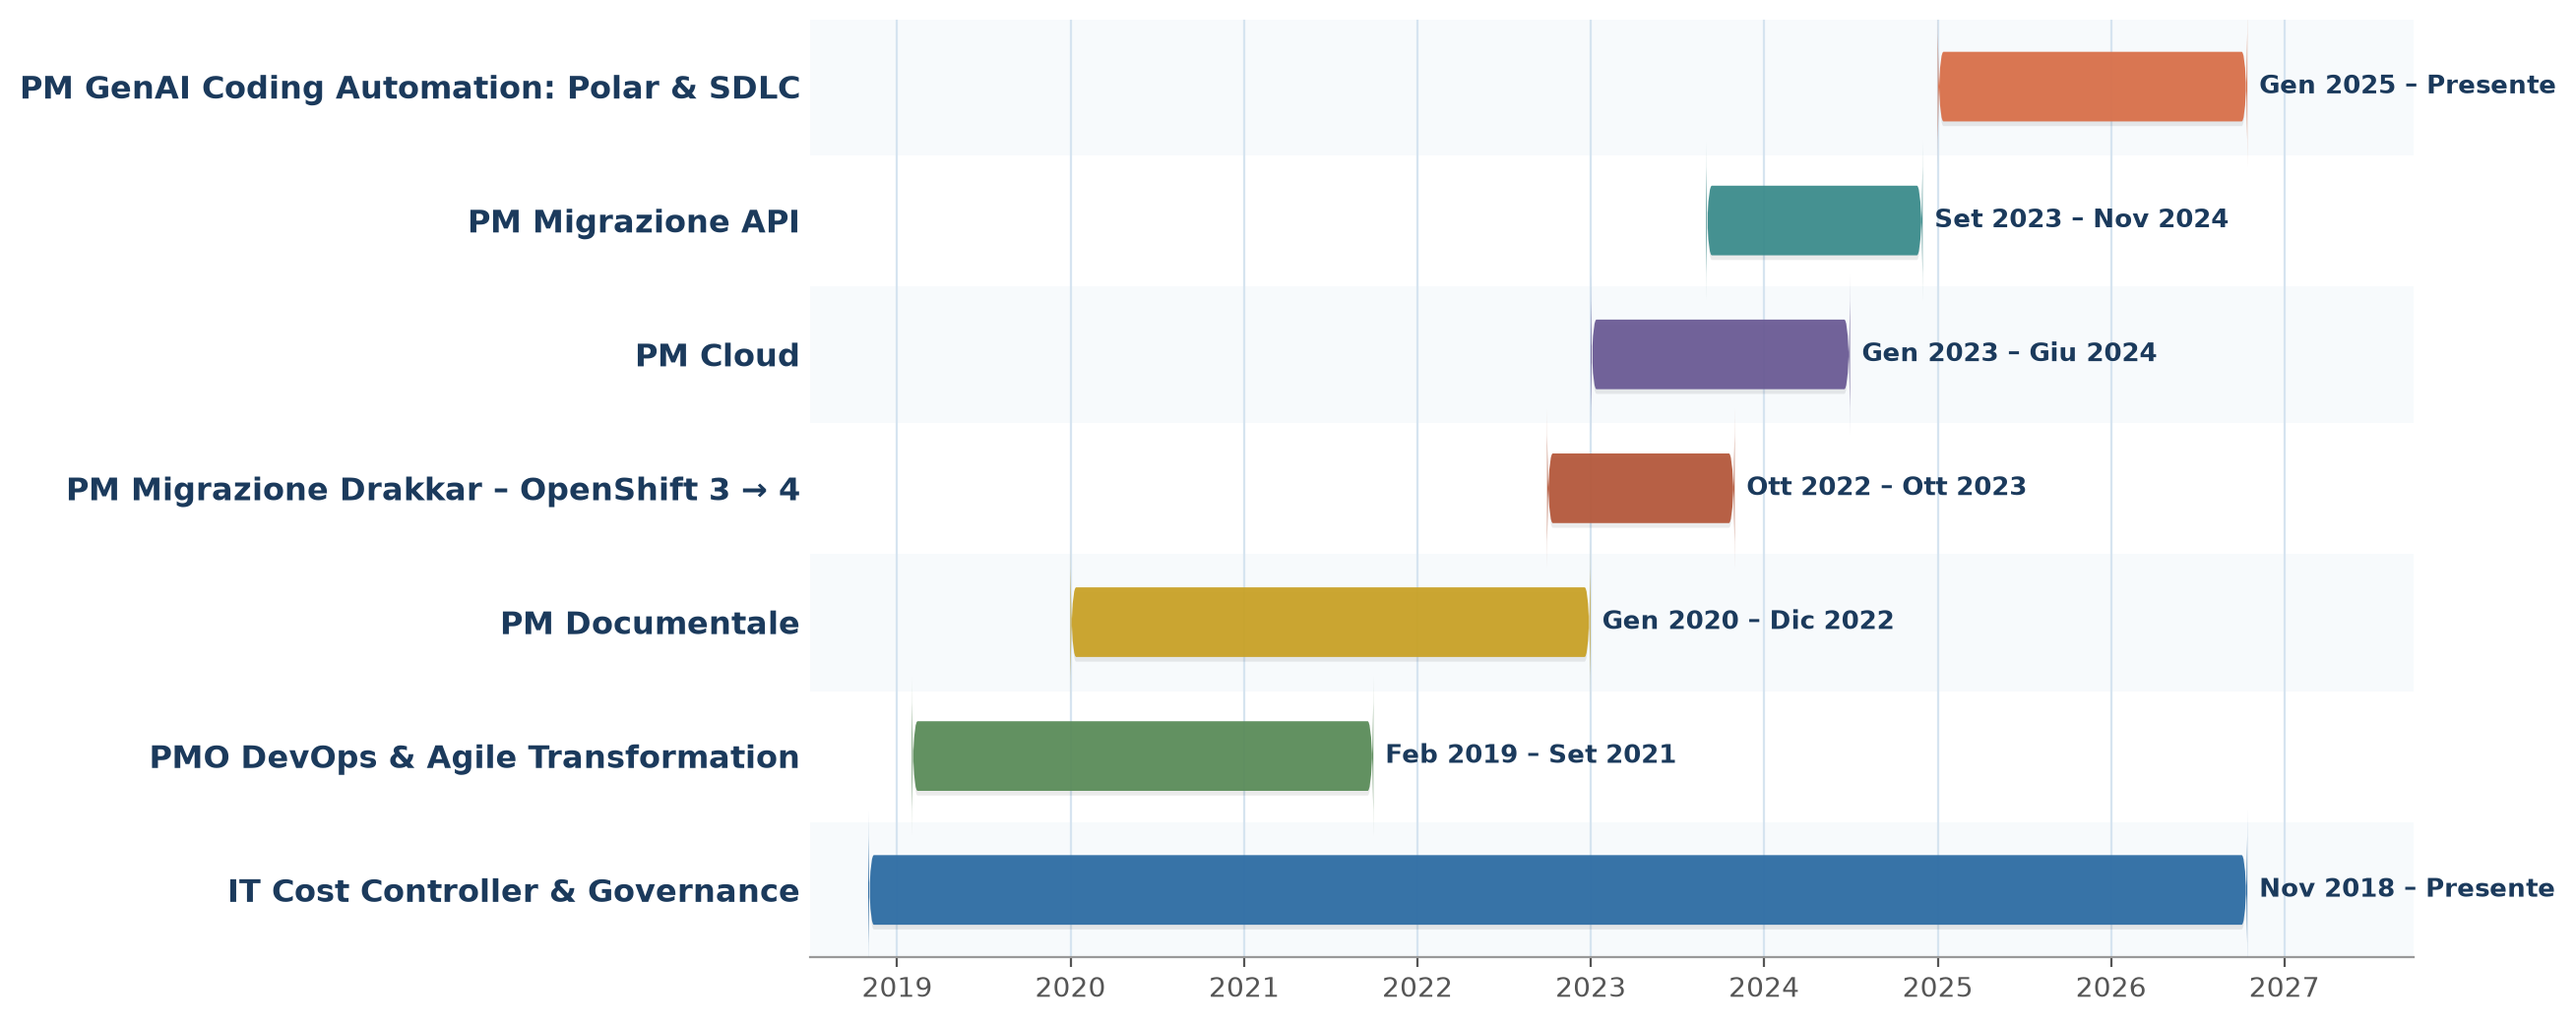
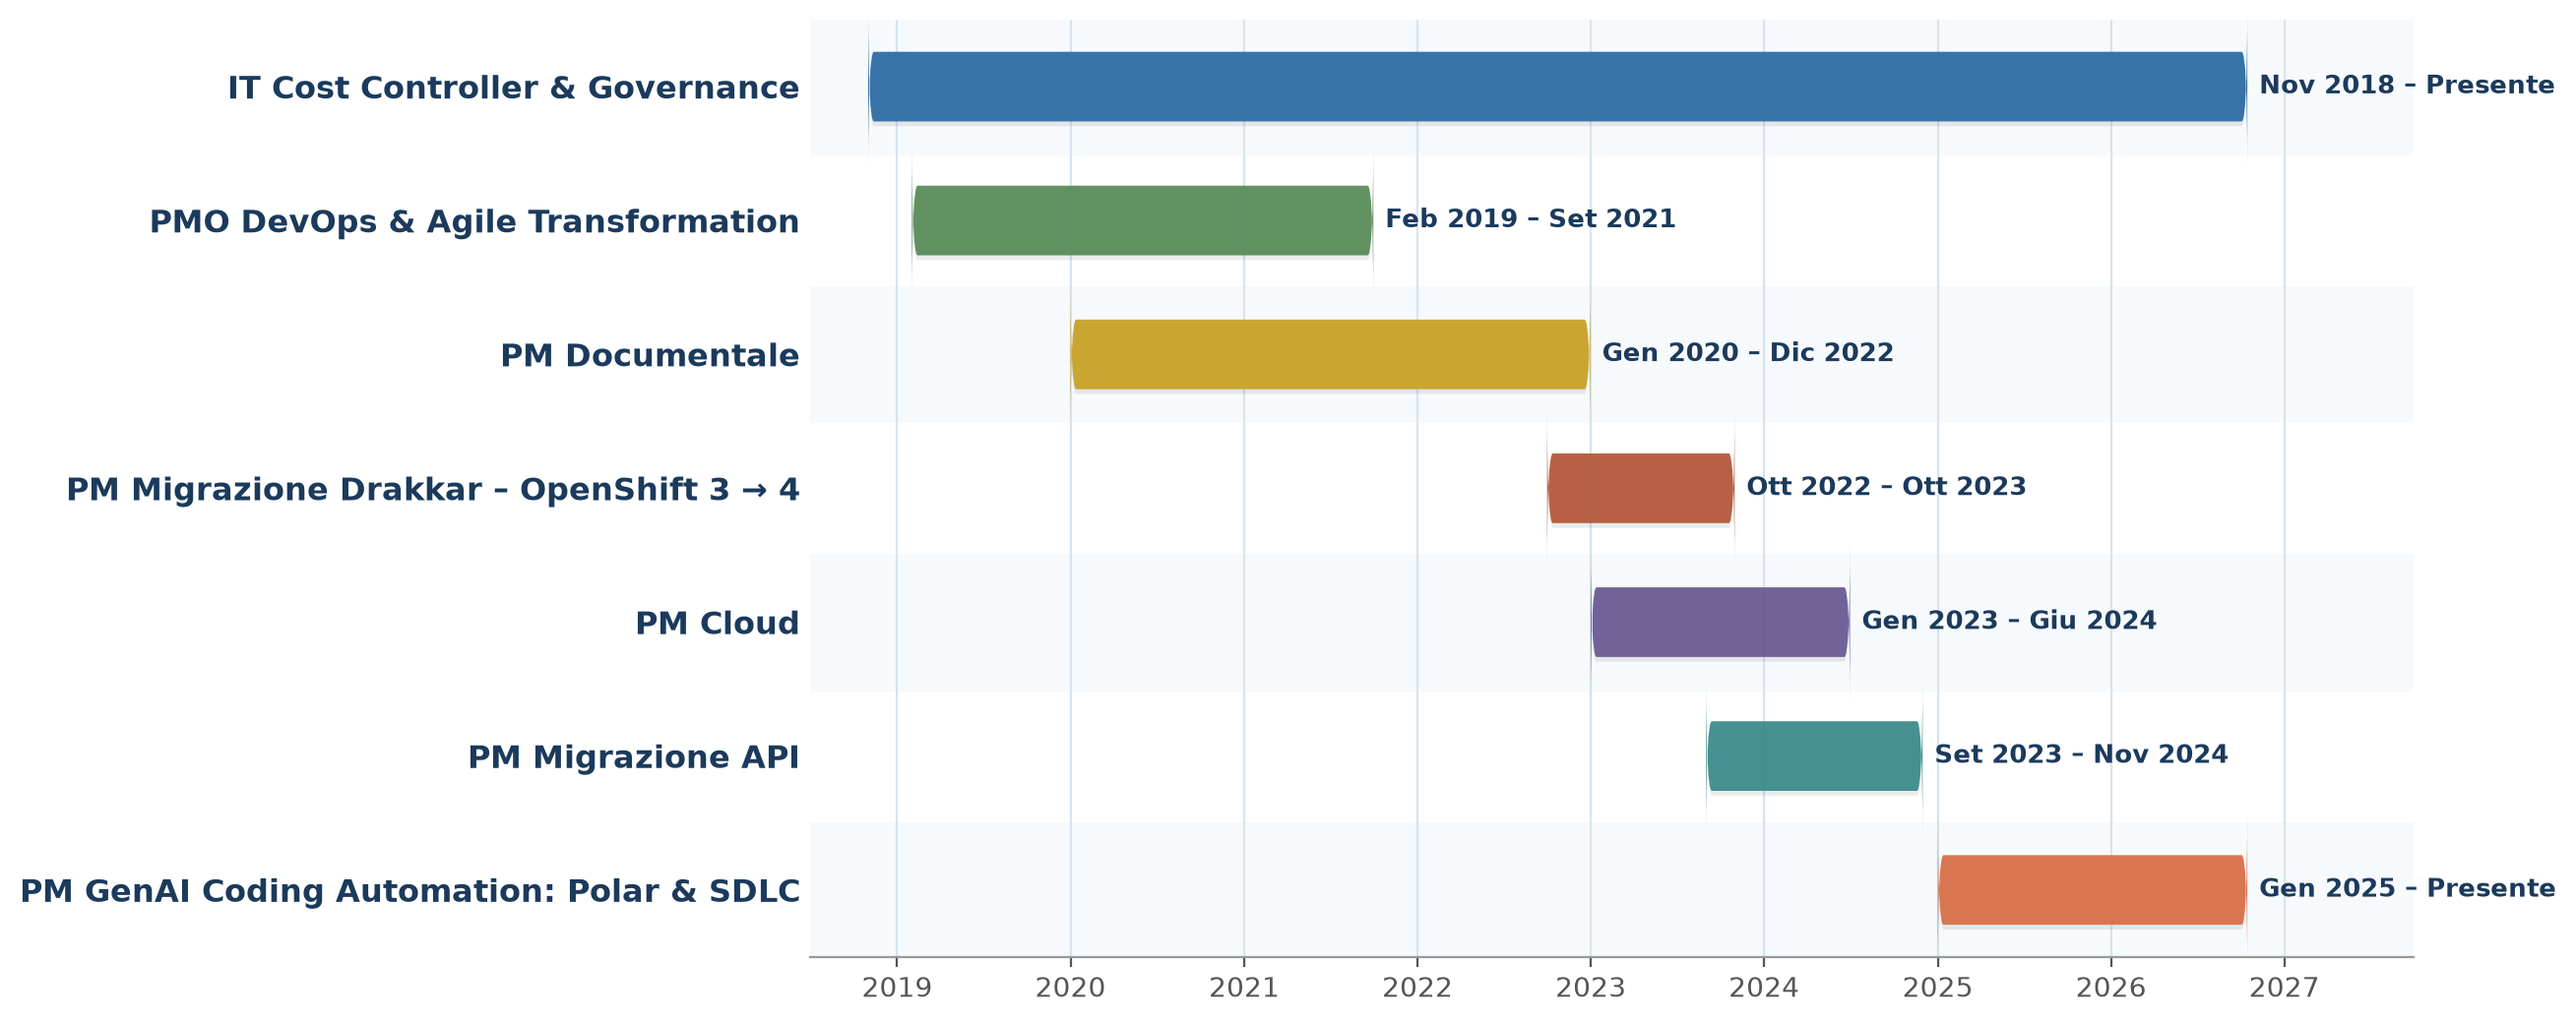
Inverte l'ordine delle righe nel Gantt: iniziativa piu' vecchia in alto, piu' recente in basso

diff --git a/cv/index.html b/cv/index.html
@@ -781,7 +781,7 @@
                 </div>
 
                 <div class="gantt-section">
-                    <img src="gantt.png?v=6" alt="Timeline delle iniziative HSPI" class="gantt-image">
+                    <img src="gantt.png?v=7" alt="Timeline delle iniziative HSPI" class="gantt-image">
                 </div>
             </div>
 
